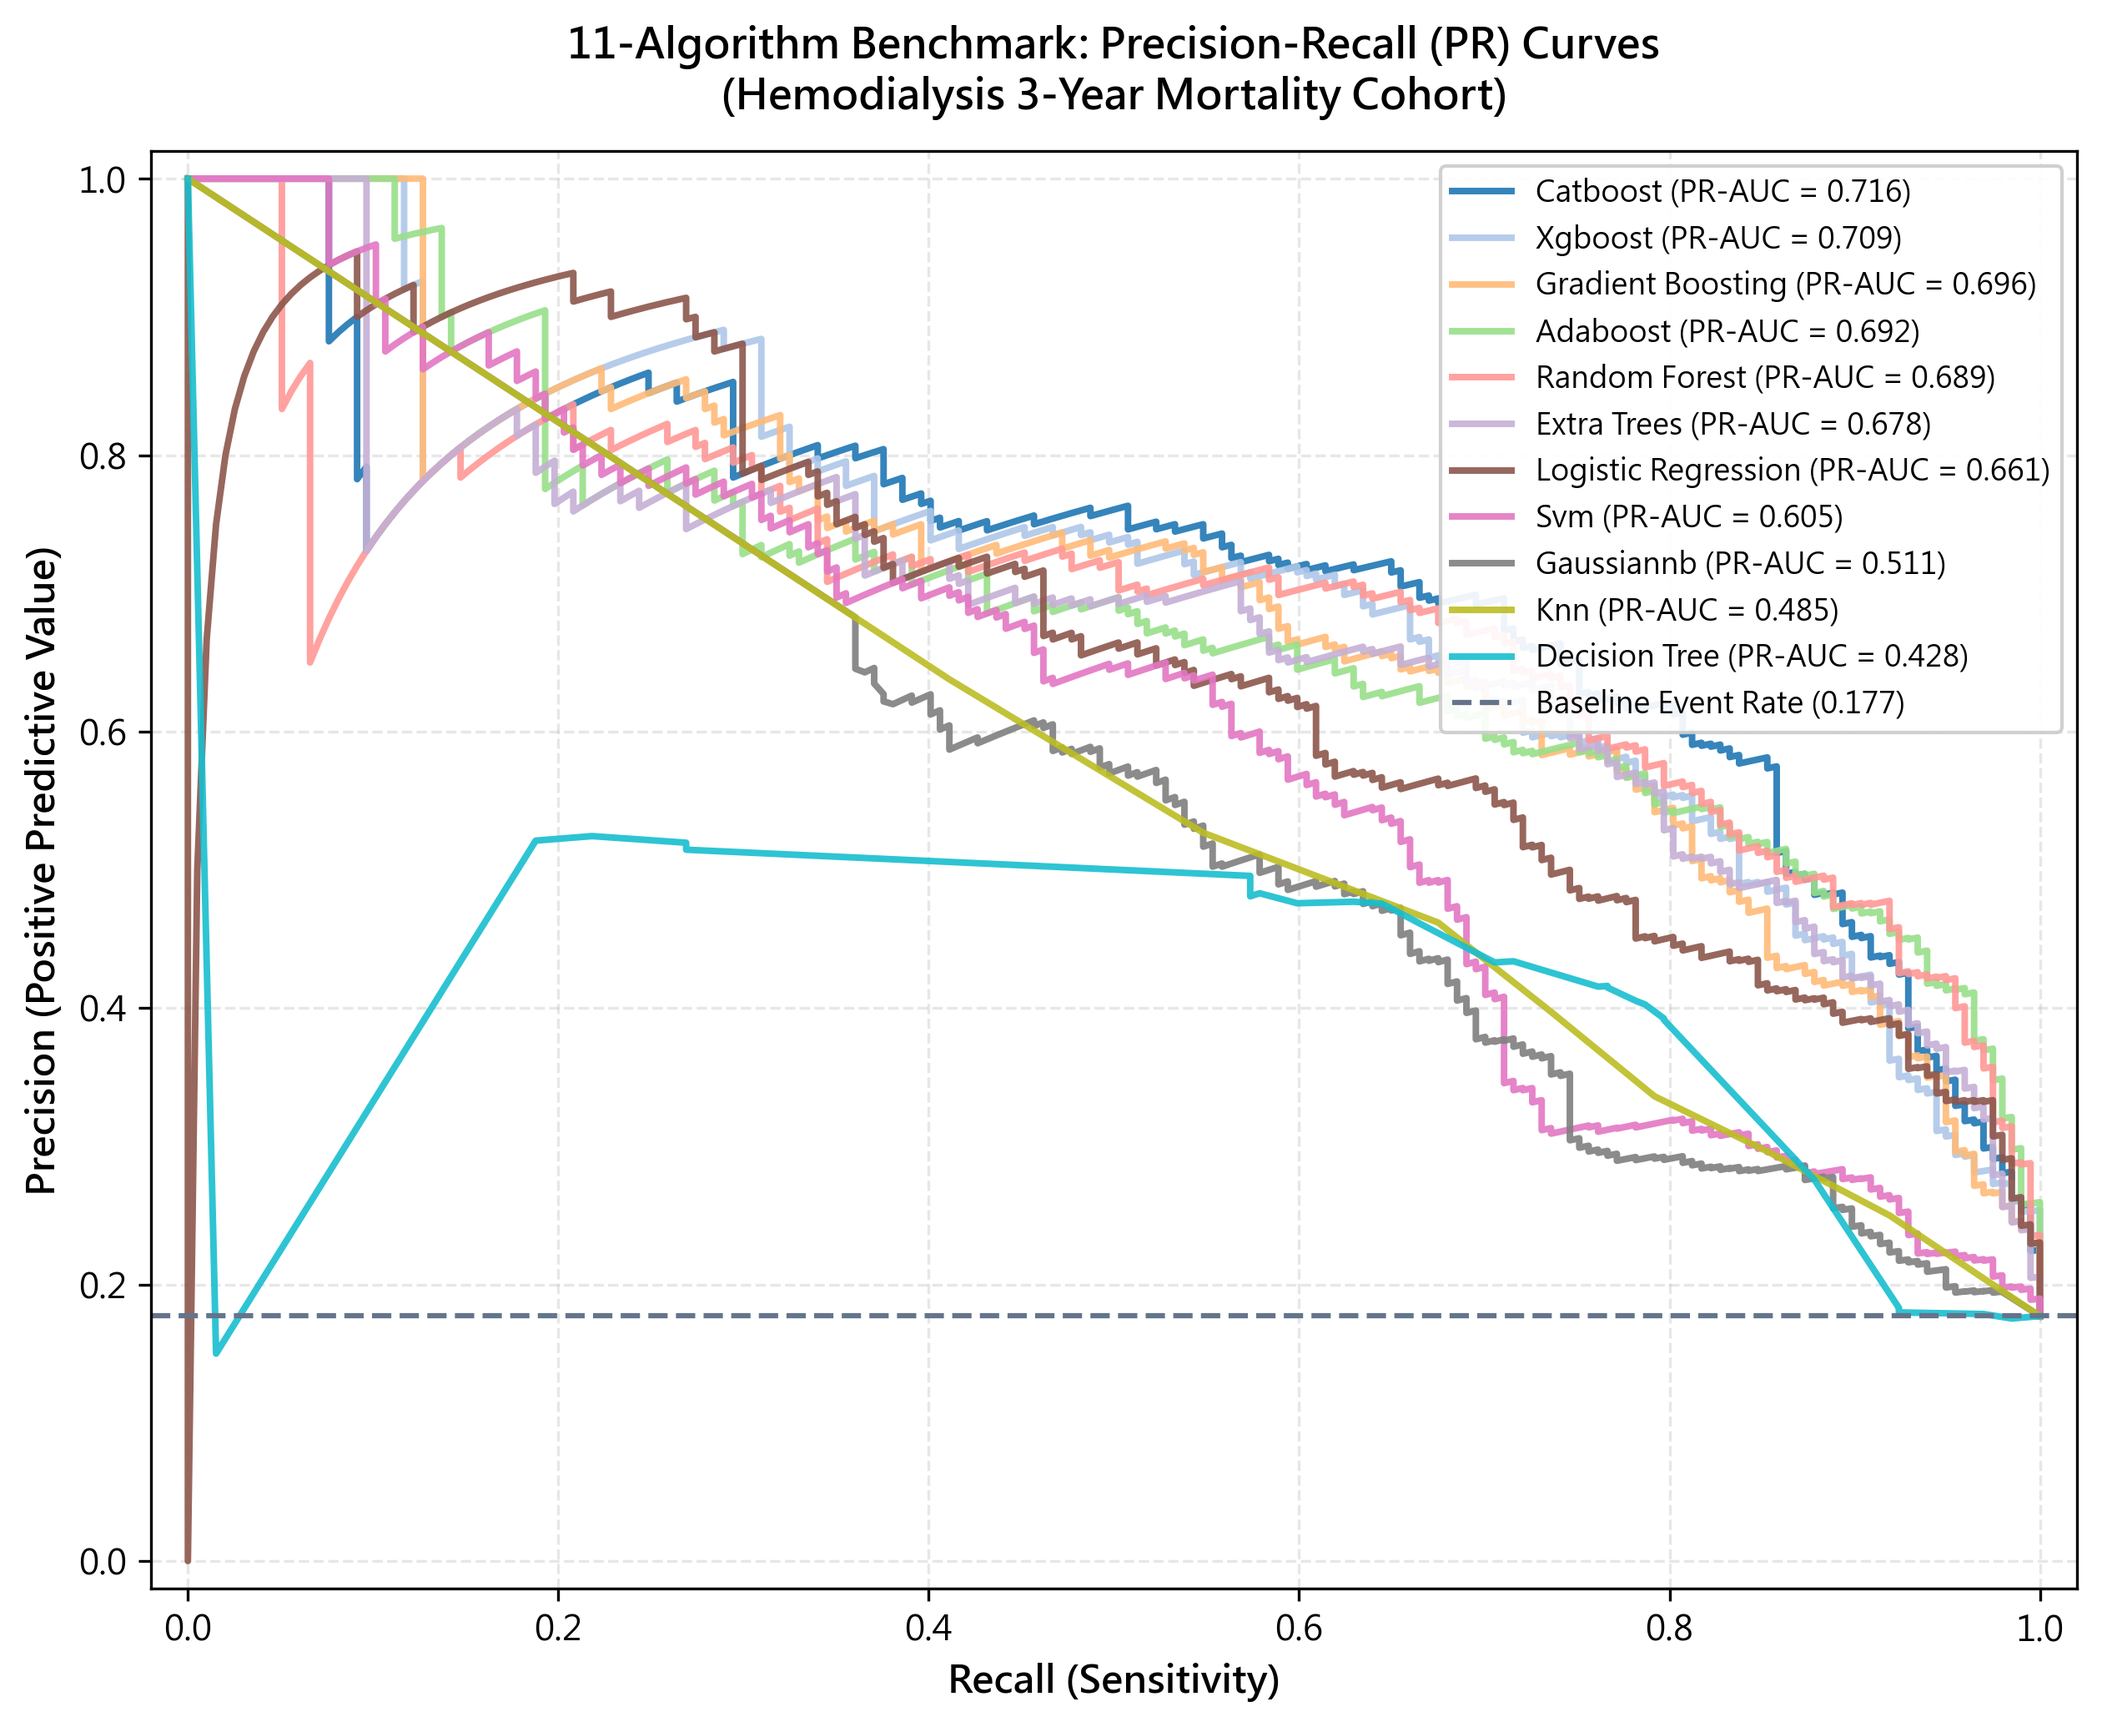
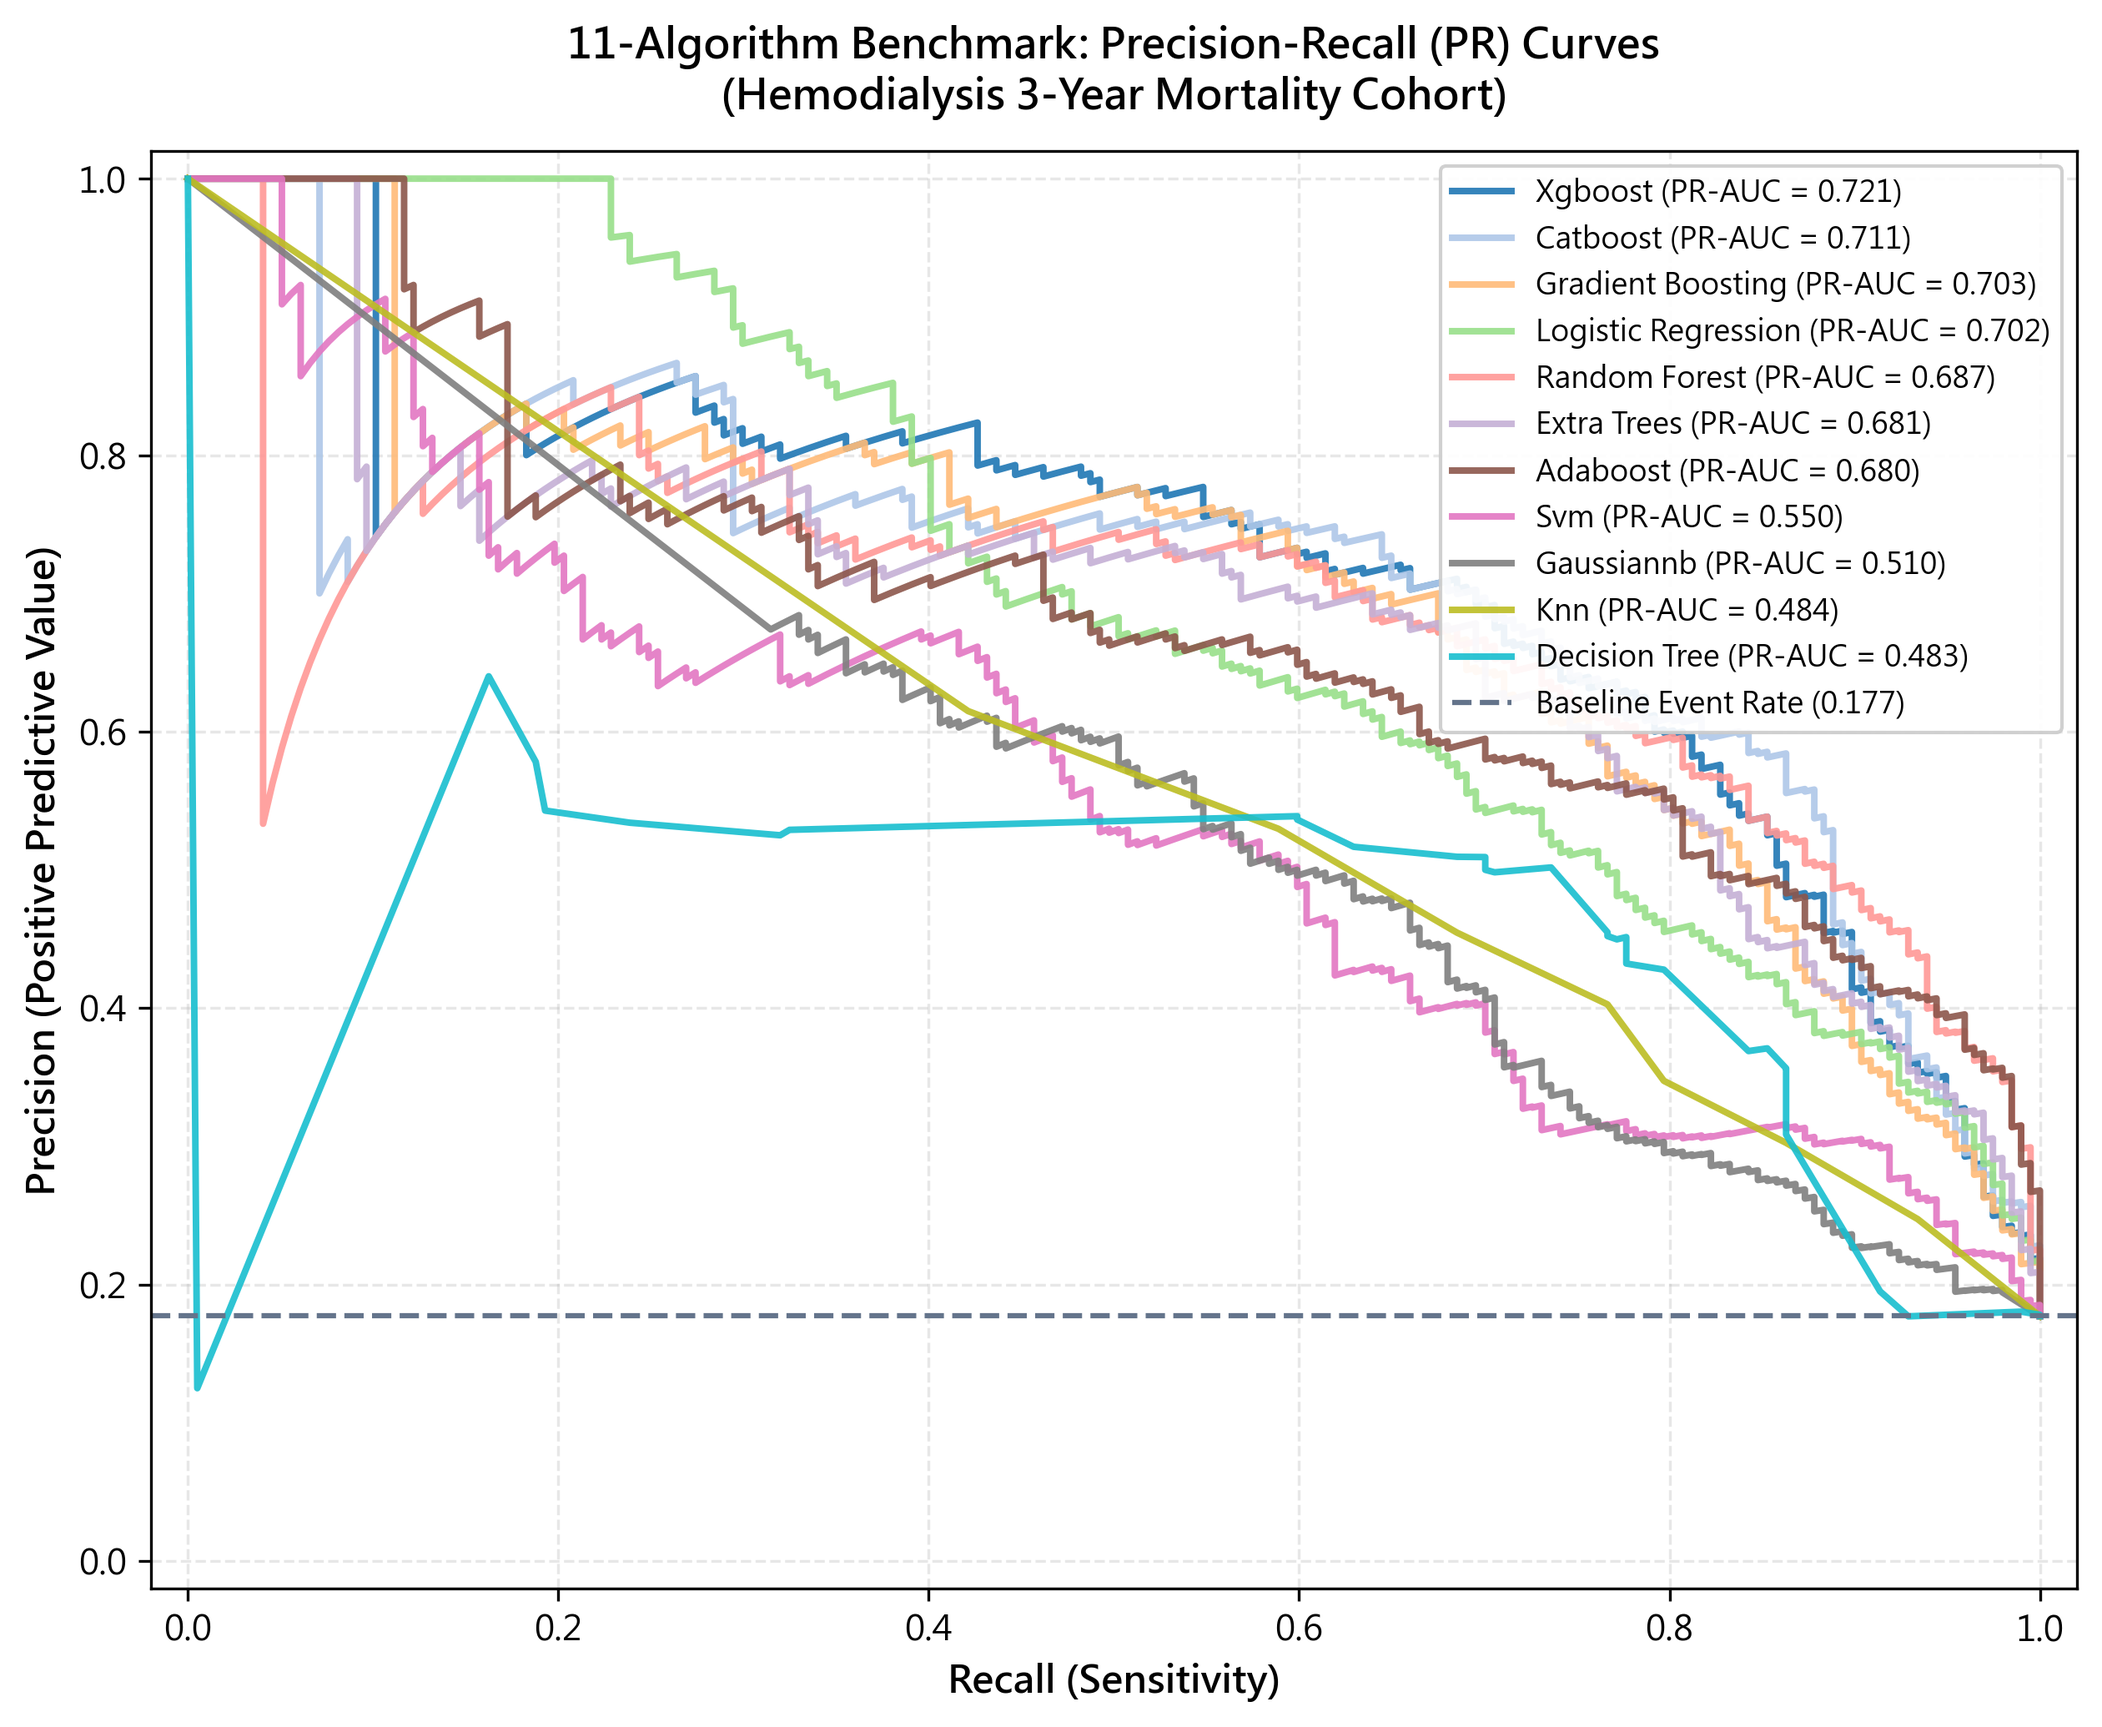
feat: Re-execute 11-model benchmark on static folds

diff --git a/reports/benchmark_summary.md b/reports/benchmark_summary.md
@@ -2,52 +2,32 @@
 
 ## Cohort & Methodology Summary
 - **Cohort**: Longitudinal Hemodialysis Rolling 3-Year Dynamic Cohort
-- **Training Records**: 3,737 observations (purified via multivariate $T^2$ & Jackson-Mudholkar SPE)
-- **Uncurated Test Records**: 1,112 observations (100% unpruned, zero synthetic distortion)
-- **Test Set Ground Truth**: 197 Deceased (17.72%), 915 Survived (82.28%)
-- **Validation Scheme**: 5-Fold `GroupKFold` strictly partitioned by `PatientID` (zero cross-fold identity leakage)
-- **Resampling**: In-Fold `SMOTE-NC` (spatial interpolation for continuous analytes, mode assignment for discrete flags)
-- **Threshold Calibration**: Optimal cutoff $T^* \in [0.05, 0.95]$ (step 0.01) maximizing F1-score strictly on Out-of-Fold (OOF) predictions
-- **Blinding Principle**: Test labels strictly isolated and untouched during all preprocessing, tuning, and threshold selection
+- **Training Records**: 3,737 observations (purified via $T^2$ & SPE)
+- **Uncurated Test Records**: 1,112 observations (100% unpruned)
+- **Validation Scheme**: 5-Fold Stratified Group Partition (`PatientID`)
+- **Resampling**: In-Fold `SMOTE-NC` (mode for discrete flags)
+- **Threshold Calibration**: Optimal cutoff $T^* \in [0.05, 0.95]$ on OOF
+- **Blinding Principle**: Test labels isolated and untouched
 
-## Performance Leaderboard (Ranked by ROC-AUC, with Explicit Recall & Precision)
+## Performance Leaderboard (Ranked by ROC-AUC)
 
-| Rank | Model | Optimal $T^*$ | ROC-AUC | PR-AUC | Brier | Recall / Sens ($T^*$) | True Positives (TP / 197) | Precision ($T^*$) | False Positives (FP) | Spec ($T^*$) | F1 ($T^*$) | Acc ($T^*$) | Kappa ($T^*$) |
-|:---:|:---|:---:|:---:|:---:|:---:|:---:|:---:|:---:|:---:|:---:|:---:|:---:|:---:|
-| 🥇 | **Random Forest** | `0.52` | **0.9186** | 0.6886 | 0.1036 | 70.6% | 139 / 197 | **67.1%** | **68** | **0.9257** | **0.6881** | **0.8867** | **0.6189** |
-| 🥈 | **CatBoost** | `0.38` | **0.9177** | **0.7157** | **0.0831** | **75.1%** | **148 / 197** | 62.7% | 88 | 0.9038 | 0.6836 | 0.8768 | 0.6079 |
-| 🥉 | **AdaBoost** | `0.51` | 0.9147 | 0.6920 | 0.1892 | 68.0% | 134 / 197 | 61.5% | 84 | 0.9082 | 0.6458 | 0.8678 | 0.5648 |
-| 4 | **XGBoost** | `0.41` | 0.9067 | 0.7086 | 0.0879 | 70.1% | 138 / 197 | 63.0% | 81 | 0.9115 | 0.6635 | 0.8741 | 0.5863 |
-| 5 | **Extra Trees** | `0.50` | 0.9049 | 0.6777 | 0.1180 | 71.6% | 141 / 197 | 63.5% | 81 | 0.9115 | 0.6730 | 0.8768 | 0.5975 |
-| 6 | **Gradient Boosting** | `0.44` | 0.9017 | 0.6960 | 0.0929 | 70.1% | 138 / 197 | 63.3% | 80 | 0.9126 | 0.6651 | 0.8750 | 0.5885 |
-| 7 | **Logistic Regression** | `0.58` | 0.8911 | 0.6612 | 0.1085 | 61.4% | 121 / 197 | 58.5% | 86 | 0.9060 | 0.5990 | 0.8543 | 0.5101 |
-| 8 | **SVM** | `0.64` | 0.8226 | 0.6045 | 0.2028 | 73.1% | 144 / 197 | 31.3% | 316 | 0.6546 | 0.4384 | 0.6682 | 0.2531 |
-| 9 | **KNN** | `0.72` | 0.8107 | 0.4850 | 0.1806 | 54.8% | 108 / 197 | 52.7% | 97 | 0.8940 | 0.5373 | 0.8327 | 0.4353 |
-| 10 | **GaussianNB** | `0.95` | 0.7970 | 0.5108 | 0.2377 | 68.5% | 135 / 197 | 41.3% | 192 | 0.7902 | 0.5153 | 0.7716 | 0.3777 |
-| 11 | **Decision Tree** | `0.38` | 0.7871 | 0.4284 | 0.1492 | 71.6% | 141 / 197 | 43.4% | 184 | 0.7989 | 0.5402 | 0.7842 | 0.4101 |
-
----
-
-## Default Threshold ($T=0.50$) Comparison (Ranked by ROC-AUC)
-
-| Rank | Model | ROC-AUC | PR-AUC | Brier | Recall / Sens ($T=0.5$) | True Positives (TP / 197) | Precision ($T=0.5$) | False Positives (FP) | Spec ($T=0.5$) | F1 ($T=0.5$) | Acc ($T=0.5$) | Kappa ($T=0.5$) |
-|:---:|:---|:---:|:---:|:---:|:---:|:---:|:---:|:---:|:---:|:---:|:---:|:---:|
-| 🥇 | **Random Forest** | **0.9186** | 0.6886 | 0.1036 | 72.1% | 142 / 197 | 64.5% | 78 | 0.9148 | 0.6811 | 0.8804 | 0.6077 |
-| 🥈 | **CatBoost** | **0.9177** | **0.7157** | **0.0831** | 69.5% | 137 / 197 | **69.5%** | **60** | **0.9344** | **0.6954** | **0.8921** | **0.6299** |
-| 🥉 | **AdaBoost** | 0.9147 | 0.6920 | 0.1892 | **75.6%** | **149 / 197** | 58.4% | 106 | 0.8842 | 0.6593 | 0.8615 | 0.5742 |
-| 4 | **XGBoost** | 0.9067 | 0.7086 | 0.0879 | 66.0% | 130 / 197 | 67.4% | 63 | 0.9311 | 0.6667 | 0.8831 | 0.5958 |
-| 5 | **Extra Trees** | 0.9049 | 0.6777 | 0.1180 | 71.6% | 141 / 197 | 63.5% | 81 | 0.9115 | 0.6730 | 0.8768 | 0.5975 |
-| 6 | **Gradient Boosting** | 0.9017 | 0.6960 | 0.0929 | 67.5% | 133 / 197 | 64.6% | 73 | 0.9202 | 0.6600 | 0.8768 | 0.5849 |
-| 7 | **Logistic Regression** | 0.8911 | 0.6612 | 0.1085 | 66.5% | 131 / 197 | 56.2% | 102 | 0.8885 | 0.6093 | 0.8489 | 0.5165 |
-| 8 | **SVM** | 0.8226 | 0.6045 | 0.2028 | 73.1% | 144 / 197 | 31.2% | 317 | 0.6536 | 0.4377 | 0.6673 | 0.2520 |
-| 9 | **KNN** | 0.8107 | 0.4850 | 0.1806 | 73.6% | 145 / 197 | 39.7% | 220 | 0.7596 | 0.5160 | 0.7554 | 0.3714 |
-| 10 | **GaussianNB** | 0.7970 | 0.5108 | 0.2377 | 69.5% | 137 / 197 | 39.0% | 214 | 0.7661 | 0.5000 | 0.7536 | 0.3532 |
-| 11 | **Decision Tree** | 0.7871 | 0.4284 | 0.1492 | 64.5% | 127 / 197 | 47.6% | 140 | 0.8470 | 0.5474 | 0.8112 | 0.4315 |
-
----
+| Model | Optimal $T^*$ | ROC-AUC | PR-AUC | Brier | Acc ($T=0.5$) | Sens ($T=0.5$) | Spec ($T=0.5$) | F1 ($T=0.5$) | Kappa ($T=0.5$) | Acc ($T^*$) | Sens ($T^*$) | Spec ($T^*$) | F1 ($T^*$) | Kappa ($T^*$) |
+|:---|:---:|:---:|:---:|:---:|:---:|:---:|:---:|:---:|:---:|:---:|:---:|:---:|:---:|:---:|
+| **Random Forest** | `0.50` | 0.9211 | 0.6873 | 0.1039 | 0.8822 | 0.7157 | 0.9180 | 0.6828 | 0.6107 | 0.8822 | 0.7157 | 0.9180 | 0.6828 | 0.6107 |
+| **CatBoost** | `0.42` | 0.9158 | 0.7109 | 0.0822 | 0.8939 | 0.6954 | 0.9366 | 0.6990 | 0.6346 | 0.8876 | 0.7360 | 0.9202 | 0.6988 | 0.6299 |
+| **XGBoost** | `0.46` | 0.9120 | 0.7209 | 0.0826 | 0.8921 | 0.6954 | 0.9344 | 0.6954 | 0.6299 | 0.8885 | 0.7107 | 0.9268 | 0.6931 | 0.6250 |
+| **AdaBoost** | `0.51` | 0.9095 | 0.6799 | 0.1896 | 0.8579 | 0.7259 | 0.8863 | 0.6441 | 0.5568 | 0.8633 | 0.6650 | 0.9060 | 0.6329 | 0.5491 |
+| **Extra Trees** | `0.48` | 0.9035 | 0.6808 | 0.1199 | 0.8741 | 0.7208 | 0.9071 | 0.6698 | 0.5925 | 0.8660 | 0.7563 | 0.8896 | 0.6667 | 0.5843 |
+| **Gradient Boosting** | `0.44` | 0.9012 | 0.7034 | 0.0896 | 0.8786 | 0.6904 | 0.9191 | 0.6683 | 0.5941 | 0.8741 | 0.7310 | 0.9049 | 0.6729 | 0.5956 |
+| **Logistic Regression** | `0.48` | 0.8910 | 0.7020 | 0.1055 | 0.8561 | 0.6751 | 0.8951 | 0.6244 | 0.5360 | 0.8534 | 0.6853 | 0.8896 | 0.6236 | 0.5335 |
+| **KNN** | `0.58` | 0.8192 | 0.4841 | 0.1810 | 0.7572 | 0.7665 | 0.7552 | 0.5280 | 0.3851 | 0.7986 | 0.6853 | 0.8230 | 0.5466 | 0.4238 |
+| **SVM** | `0.67` | 0.8159 | 0.5501 | 0.1980 | 0.6673 | 0.7310 | 0.6536 | 0.4377 | 0.2520 | 0.8309 | 0.5228 | 0.8973 | 0.5228 | 0.4201 |
+| **Decision Tree** | `0.59` | 0.8051 | 0.4827 | 0.1387 | 0.8219 | 0.7056 | 0.8470 | 0.5840 | 0.4750 | 0.8219 | 0.7056 | 0.8470 | 0.5840 | 0.4750 |
+| **GaussianNB** | `0.95` | 0.7971 | 0.5103 | 0.1937 | 0.8004 | 0.6599 | 0.8306 | 0.5394 | 0.4174 | 0.8129 | 0.6497 | 0.8481 | 0.5517 | 0.4369 |
 
 ## Anti-Leakage Audit Trail
-- [x] Uncurated test set sample count strictly equals 1,112 (zero synthetic instances, zero dropped rows).
-- [x] Grouped patient cross-validation: Train $\cap$ Test patient IDs = $\emptyset$.
-- [x] In-fold SMOTE-NC isolation: Resampling occurs strictly inside each CV training fold and on full train set.
-- [x] Out-of-fold threshold calibration: $T^*$ selected purely on OOF probabilities with test labels completely blinded.
+- [x] Uncurated test set count strictly 1,112 (zero synthetic instances).
+- [x] Patient isolation: Train $\cap$ Test patient IDs = $\emptyset$.
+- [x] In-fold SMOTE-NC: Resampling strictly inside CV training folds.
+- [x] Out-of-fold threshold: $T^*$ selected purely on OOF probabilities.
+- [x] Static fold consumption: 5-fold partition with zero leakage.
